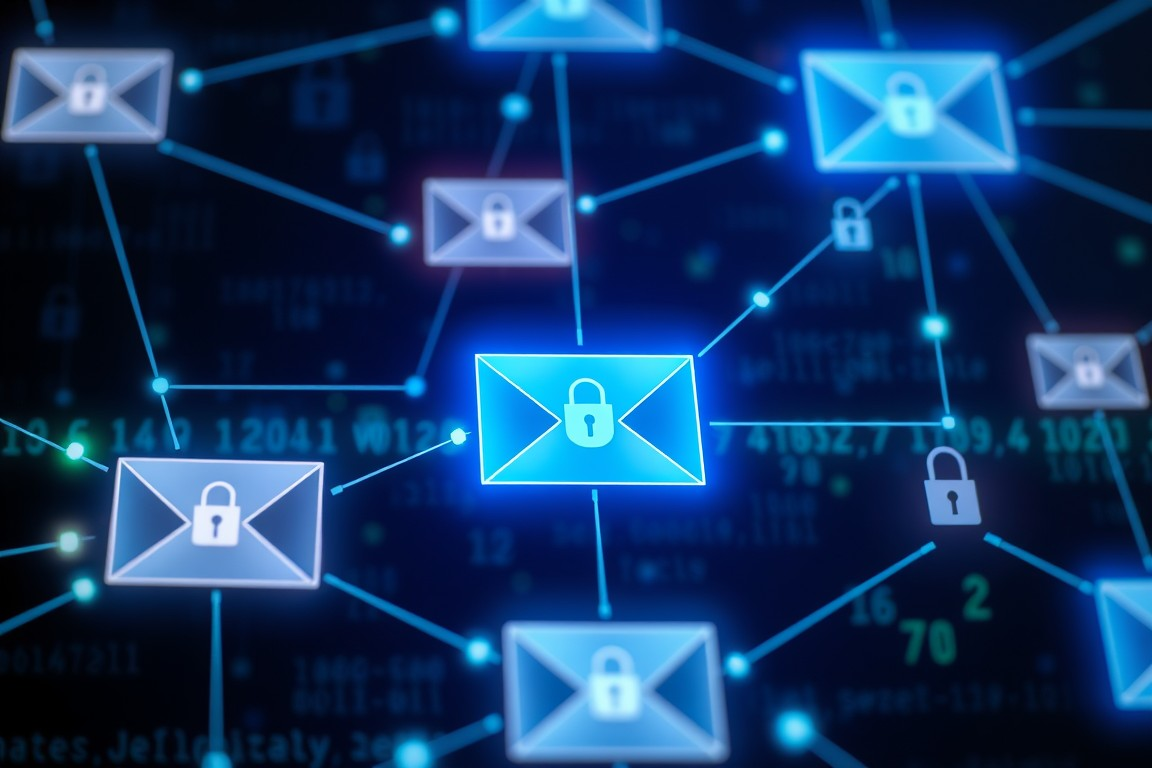
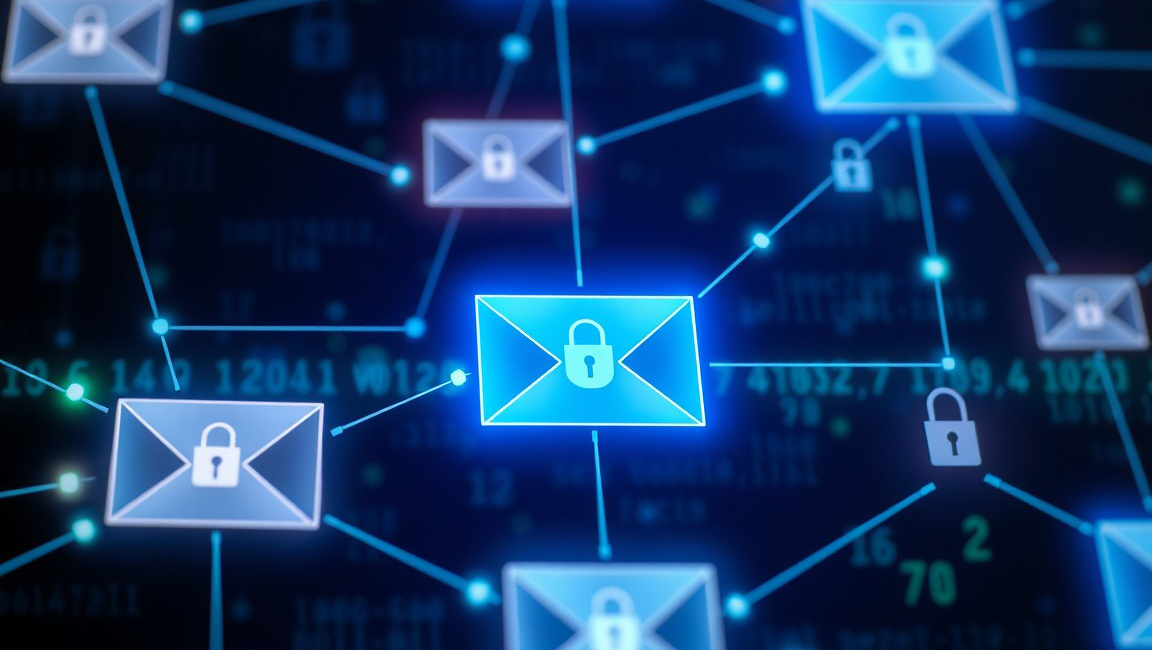
Adjust size in feature images

diff --git a/public/project/index.html b/public/project/index.html
@@ -1,6 +1,6 @@
 <!doctype html>
 <!-- This site was created with Hugo Blox. https://hugoblox.com -->
-<!-- Last Published: November 18, 2024 --><html lang="en-us" dir="ltr"
+<!-- Last Published: November 19, 2024 --><html lang="en-us" dir="ltr"
       data-wc-theme-default="system">
   
 <head><script src="/livereload.js?mindelay=10&amp;v=2&amp;port=1313&amp;path=livereload" data-no-instant defer></script>
@@ -797,7 +797,7 @@
       
         
         
-      <img class="h-48 w-full object-cover md:w-48 hover:scale-125 transition duration-500 cursor-pointer object-cover" loading="lazy" src="/project/github/featured_hu9055636305651758181.webp" height="655" width="655" alt="Github">
+      <img class="h-48 w-full object-cover md:w-48 hover:scale-125 transition duration-500 cursor-pointer object-cover" loading="lazy" src="/project/github/featured_hu12964268528064872550.webp" height="655" width="655" alt="Github">
       
     </div>
     <div class="p-8">
@@ -856,7 +856,7 @@
       
         
         
-      <img class="h-48 w-full object-cover md:w-48 hover:scale-125 transition duration-500 cursor-pointer object-cover" loading="lazy" src="/project/research/featured_hu8798326576644355433.webp" height="655" width="655" alt="Sentiment Analysis on Twitter About COVID-19 Vaccination in Mexico">
+      <img class="h-48 w-full object-cover md:w-48 hover:scale-125 transition duration-500 cursor-pointer object-cover" loading="lazy" src="/project/research/featured_hu3284374704931268200.webp" height="655" width="655" alt="Sentiment Analysis on Twitter About COVID-19 Vaccination in Mexico">
       
     </div>
     <div class="p-8">
@@ -884,7 +884,7 @@
       
         
         
-      <img class="h-48 w-full object-cover md:w-48 hover:scale-125 transition duration-500 cursor-pointer object-cover" loading="lazy" src="/project/news/featured_hu9334066926719191209.webp" height="655" width="655" alt="Automated News Analysis with GCP">
+      <img class="h-48 w-full object-cover md:w-48 hover:scale-125 transition duration-500 cursor-pointer object-cover" loading="lazy" src="/project/news/featured_hu13444892081136576595.webp" height="655" width="655" alt="Automated News Analysis with GCP">
       
     </div>
     <div class="p-8">
@@ -912,7 +912,7 @@
       
         
         
-      <img class="h-48 w-full object-cover md:w-48 hover:scale-125 transition duration-500 cursor-pointer object-cover" loading="lazy" src="/project/security-chat/featured_hu14940214159382716760.webp" height="655" width="655" alt="Secure Chat Application with Cryptography">
+      <img class="h-48 w-full object-cover md:w-48 hover:scale-125 transition duration-500 cursor-pointer object-cover" loading="lazy" src="/project/security-chat/featured_hu12939451527662132282.webp" height="655" width="655" alt="Secure Chat Application with Cryptography">
       
     </div>
     <div class="p-8">

diff --git a/public/projects/index.html b/public/projects/index.html
@@ -1,6 +1,6 @@
 <!doctype html>
 <!-- This site was created with Hugo Blox. https://hugoblox.com -->
-<!-- Last Published: November 18, 2024 --><html lang="en-us" dir="ltr"
+<!-- Last Published: November 19, 2024 --><html lang="en-us" dir="ltr"
       data-wc-theme-default="system">
   
 <head><script src="/livereload.js?mindelay=10&amp;v=2&amp;port=1313&amp;path=livereload" data-no-instant defer></script>
@@ -965,9 +965,9 @@
            class="object-contain transition-all"
            data-nimg="fill"
            decoding="async"
-           fetchpriority="high" height="540" loading="lazy" src="/project/github/featured_hu3308896205373794378.webp"
+           fetchpriority="high" height="537" loading="lazy" src="/project/github/featured_hu2214161777016438297.webp"
            style="position: absolute; height: 100%; width: 100%; inset: 0px; color: transparent;"
-           width="810"></a>
+           width="960"></a>
   </div>
   
   <div class="">
@@ -1095,9 +1095,9 @@
            class="object-contain transition-all"
            data-nimg="fill"
            decoding="async"
-           fetchpriority="high" height="540" loading="lazy" src="/project/news/featured_hu8550335249982527861.webp"
+           fetchpriority="high" height="540" loading="lazy" src="/project/news/featured_hu15636418014411961971.webp"
            style="position: absolute; height: 100%; width: 100%; inset: 0px; color: transparent;"
-           width="810"></a>
+           width="957"></a>
   </div>
   
   <div class="">
@@ -1163,9 +1163,9 @@
            class="object-contain transition-all"
            data-nimg="fill"
            decoding="async"
-           fetchpriority="high" height="540" loading="lazy" src="/project/research/featured_hu5828481538483957358.webp"
+           fetchpriority="high" height="537" loading="lazy" src="/project/research/featured_hu3777283172728415767.webp"
            style="position: absolute; height: 100%; width: 100%; inset: 0px; color: transparent;"
-           width="810"></a>
+           width="960"></a>
   </div>
   
   <div class="">
@@ -1228,9 +1228,9 @@
            class="object-contain transition-all"
            data-nimg="fill"
            decoding="async"
-           fetchpriority="high" height="540" loading="lazy" src="/project/security-chat/featured_hu3416693572181053429.webp"
+           fetchpriority="high" height="540" loading="lazy" src="/project/security-chat/featured_hu8731665134511998251.webp"
            style="position: absolute; height: 100%; width: 100%; inset: 0px; color: transparent;"
-           width="810"></a>
+           width="957"></a>
   </div>
   
   <div class="">

diff --git a/public/project/security-chat/index.html b/public/project/security-chat/index.html
@@ -1,6 +1,6 @@
 <!doctype html>
 <!-- This site was created with Hugo Blox. https://hugoblox.com -->
-<!-- Last Published: November 18, 2024 --><html lang="en-us" dir="ltr"
+<!-- Last Published: November 19, 2024 --><html lang="en-us" dir="ltr"
       data-wc-theme-default="system">
   
 <head><script src="/livereload.js?mindelay=10&amp;v=2&amp;port=1313&amp;path=livereload" data-no-instant defer></script>
@@ -1263,9 +1263,9 @@ The Secure Chat Application is an advanced messaging system built in Java, desig
       
       
       
-      <div class="article-header article-container featured-image-wrapper mt-4 mb-16" style="max-width: 720px; max-height: 480px;">
+      <div class="article-header article-container featured-image-wrapper mt-4 mb-16" style="max-width: 720px; max-height: 406px;">
         <div style="position: relative">
-          <img src="/project/security-chat/featured_hu1403353619807695923.webp" width="720" height="480" alt="" class="featured-image">
+          <img src="/project/security-chat/featured_hu11427748943863976352.webp" width="720" height="406" alt="" class="featured-image">
           
         </div>
       </div>

diff --git a/public/project/news/index.html b/public/project/news/index.html
@@ -1,6 +1,6 @@
 <!doctype html>
 <!-- This site was created with Hugo Blox. https://hugoblox.com -->
-<!-- Last Published: November 18, 2024 --><html lang="en-us" dir="ltr"
+<!-- Last Published: November 19, 2024 --><html lang="en-us" dir="ltr"
       data-wc-theme-default="system">
   
 <head><script src="/livereload.js?mindelay=10&amp;v=2&amp;port=1313&amp;path=livereload" data-no-instant defer></script>
@@ -1284,9 +1284,9 @@ This project, developed as a part of the &ldquo;Cloud Computing&rdquo; course in
       
       
       
-      <div class="article-header article-container featured-image-wrapper mt-4 mb-16" style="max-width: 720px; max-height: 480px;">
+      <div class="article-header article-container featured-image-wrapper mt-4 mb-16" style="max-width: 720px; max-height: 406px;">
         <div style="position: relative">
-          <img src="/project/news/featured_hu7434987158403583943.webp" width="720" height="480" alt="" class="featured-image">
+          <img src="/project/news/featured_hu17694678341782784051.webp" width="720" height="406" alt="" class="featured-image">
           
         </div>
       </div>

diff --git a/public/project/research/index.html b/public/project/research/index.html
@@ -1,6 +1,6 @@
 <!doctype html>
 <!-- This site was created with Hugo Blox. https://hugoblox.com -->
-<!-- Last Published: November 18, 2024 --><html lang="en-us" dir="ltr"
+<!-- Last Published: November 19, 2024 --><html lang="en-us" dir="ltr"
       data-wc-theme-default="system">
   
 <head><script src="/livereload.js?mindelay=10&amp;v=2&amp;port=1313&amp;path=livereload" data-no-instant defer></script>
@@ -1222,9 +1222,9 @@
       
       
       
-      <div class="article-header article-container featured-image-wrapper mt-4 mb-16" style="max-width: 720px; max-height: 480px;">
+      <div class="article-header article-container featured-image-wrapper mt-4 mb-16" style="max-width: 720px; max-height: 403px;">
         <div style="position: relative">
-          <img src="/project/research/featured_hu6831760021677126595.webp" width="720" height="480" alt="" class="featured-image">
+          <img src="/project/research/featured_hu6841674739957161717.webp" width="720" height="403" alt="" class="featured-image">
           
         </div>
       </div>

diff --git a/public/project/github/index.html b/public/project/github/index.html
@@ -1,6 +1,6 @@
 <!doctype html>
 <!-- This site was created with Hugo Blox. https://hugoblox.com -->
-<!-- Last Published: November 18, 2024 --><html lang="en-us" dir="ltr"
+<!-- Last Published: November 19, 2024 --><html lang="en-us" dir="ltr"
       data-wc-theme-default="system">
   
 <head><script src="/livereload.js?mindelay=10&amp;v=2&amp;port=1313&amp;path=livereload" data-no-instant defer></script>
@@ -1222,9 +1222,9 @@
       
       
       
-      <div class="article-header article-container featured-image-wrapper mt-4 mb-16" style="max-width: 720px; max-height: 480px;">
+      <div class="article-header article-container featured-image-wrapper mt-4 mb-16" style="max-width: 720px; max-height: 403px;">
         <div style="position: relative">
-          <img src="/project/github/featured_hu4352493264279134835.webp" width="720" height="480" alt="" class="featured-image">
+          <img src="/project/github/featured_hu6411837574446296022.webp" width="720" height="403" alt="" class="featured-image">
           
         </div>
       </div>

diff --git a/public/project/adsoa/index.html b/public/project/adsoa/index.html
@@ -1,6 +1,6 @@
 <!doctype html>
 <!-- This site was created with Hugo Blox. https://hugoblox.com -->
-<!-- Last Published: November 18, 2024 --><html lang="en-us" dir="ltr"
+<!-- Last Published: November 19, 2024 --><html lang="en-us" dir="ltr"
       data-wc-theme-default="system">
   
 <head><script src="/livereload.js?mindelay=10&amp;v=2&amp;port=1313&amp;path=livereload" data-no-instant defer></script>

diff --git a/public/project/speech-generator/index.html b/public/project/speech-generator/index.html
@@ -1,6 +1,6 @@
 <!doctype html>
 <!-- This site was created with Hugo Blox. https://hugoblox.com -->
-<!-- Last Published: November 18, 2024 --><html lang="en-us" dir="ltr"
+<!-- Last Published: November 19, 2024 --><html lang="en-us" dir="ltr"
       data-wc-theme-default="system">
   
 <head><script src="/livereload.js?mindelay=10&amp;v=2&amp;port=1313&amp;path=livereload" data-no-instant defer></script>

diff --git a/public/skills/index.html b/public/skills/index.html
@@ -1,6 +1,6 @@
 <!doctype html>
 <!-- This site was created with Hugo Blox. https://hugoblox.com -->
-<!-- Last Published: November 18, 2024 --><html lang="en-us" dir="ltr"
+<!-- Last Published: November 19, 2024 --><html lang="en-us" dir="ltr"
       data-wc-theme-default="system">
   
 <head><script src="/livereload.js?mindelay=10&amp;v=2&amp;port=1313&amp;path=livereload" data-no-instant defer></script>
